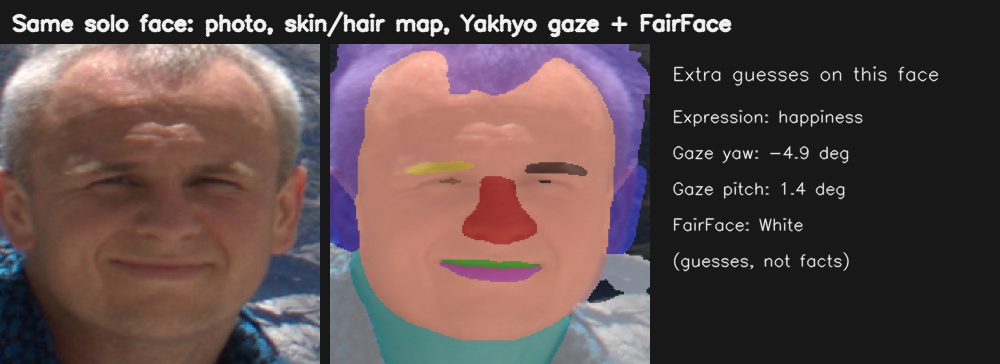
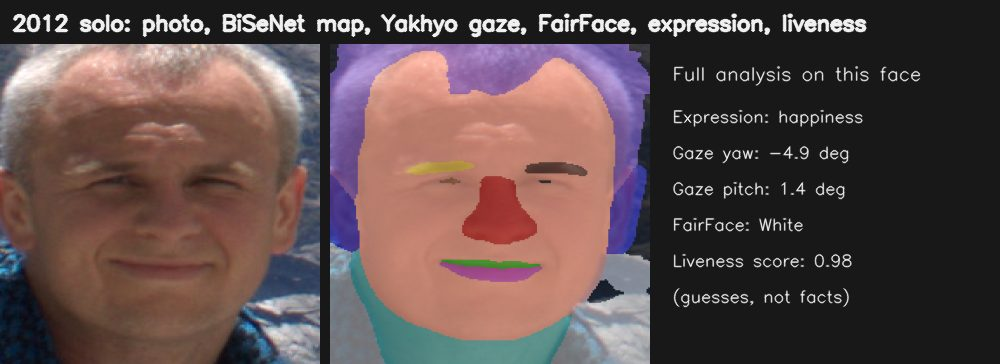
Document 2012 photos as the full README analysis example.
- List SCRFD, gaze, FairFace, BiSeNet, expression, blendshapes, and liveness
- Refresh the solo extras panel from the updated sidecar

-----
Prompt: track 2012* images. Is it for a full analyzis example of SCRFD, gaze, Fairface, BiSeNet, etc
Context: README explains that 2012 solos carry the complete analysis tool set.
Justification: Readers should know these files are the full extras example, not only a face box.

Technical details:
- Model: Cursor Grok 4.6
- IDE: Cursor
- Generation method: AI-assisted pair programming
- Code style: Markdown, OpenCV example generator
- Dependencies: sidecar reader
- Tokens: ~2500

diff --git a/scripts/generate_readme_examples.py b/scripts/generate_readme_examples.py
@@ -186,13 +186,16 @@ def make_solo() -> None:
     mid = cv2.resize(blend, (size, size), interpolation=cv2.INTER_AREA)
     expr = str(_sidecar_face(SOLO_FILE, "opencv_fer").get("emotion_label", "?"))
     race = str(_sidecar_face(SOLO_FILE, "fairface").get("race_label", "?"))
+    live = _sidecar_face(SOLO_FILE, "face_antispoof_onnx")
+    live_score = float(live.get("liveness_score", 0.0))
     panel = np.full((size, 340, 3), 24, dtype=np.uint8)
     lines = [
-        "Extra guesses on this face",
+        "Full analysis on this face",
         f"Expression: {expr}",
         f"Gaze yaw: {float(gaze['yaw']):.1f} deg",
         f"Gaze pitch: {float(gaze['pitch']):.1f} deg",
         f"FairFace: {race}",
+        f"Liveness score: {live_score:.2f}",
         "(guesses, not facts)",
     ]
     y = 36
@@ -202,7 +205,10 @@ def make_solo() -> None:
         y += 42 if i == 0 else 36
     gap = np.full((size, 10, 3), 24, dtype=np.uint8)
     row = np.hstack([left, gap, mid, gap, panel])
-    extras = _caption_bar(row, "Same solo face: photo, skin/hair map, Yakhyo gaze + FairFace")
+    extras = _caption_bar(
+        row,
+        "2012 solo: photo, BiSeNet map, Yakhyo gaze, FairFace, expression, liveness",
+    )
     _save_jpg(OUT / "face_extras_solo.jpg", extras)
     _save_jpg(OUT / "face_parsing.jpg", _caption_bar(np.hstack([left, gap, mid]), "Same face: photo (left) and skin/hair/eye map (right)"))
 
